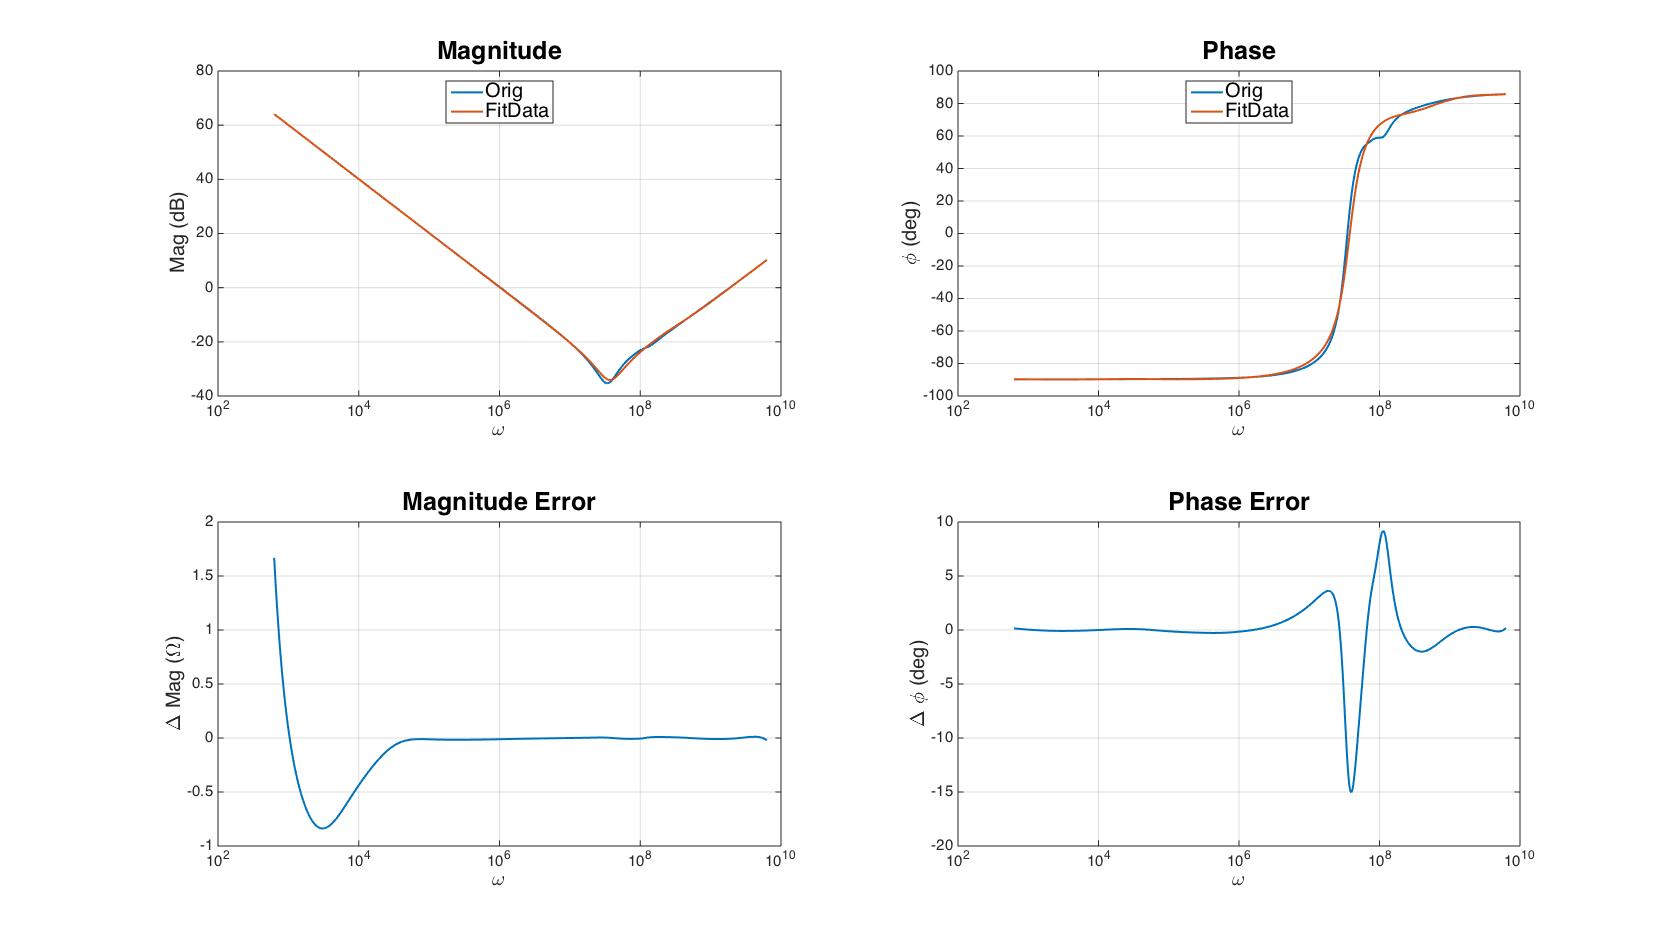
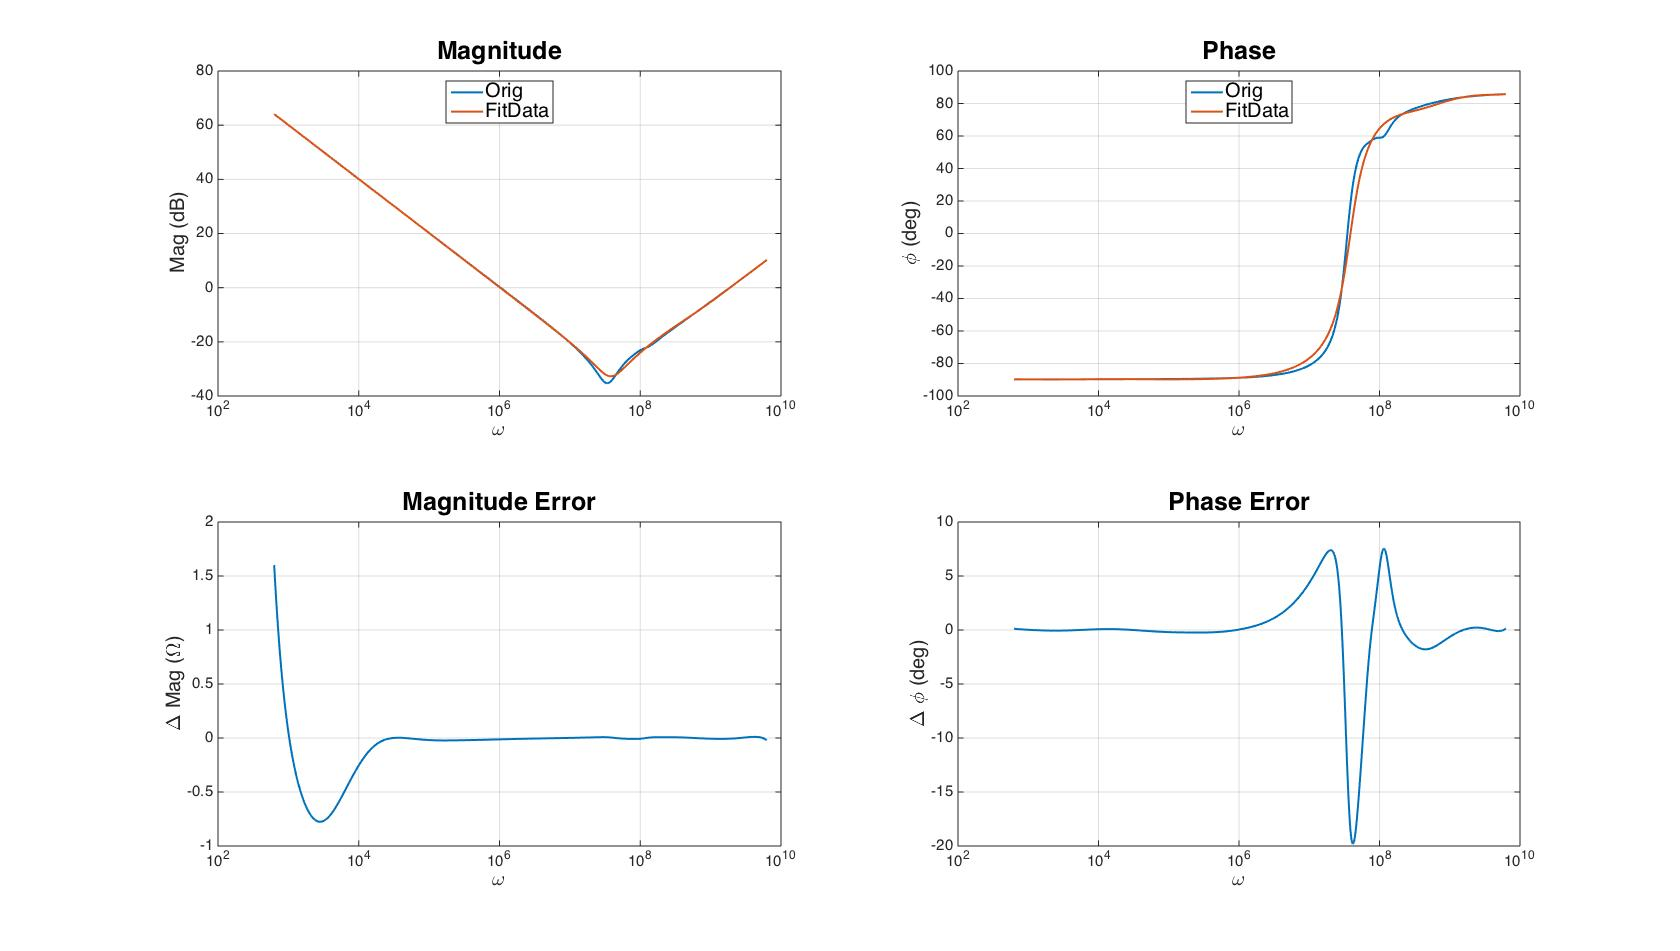
updated levy and levy iter sections of regression analysis.

diff --git a/thesis/scripts/regression/regression_levy_iter.m b/thesis/scripts/regression/regression_levy_iter.m
@@ -1,0 +1,207 @@
+function [G, numCoeffs, denCoeffs, E, minIndex] = regression_levy_iter(cData, w, iterations, numbNumCoeffs, numbDenCoeffs, initDen)
+    % Execute the regression analysis based upon Levy's method + iteration.
+    % G(s) = (a0 + a1*s + a2*s^2 + ... + an*s^n) /
+    %        (b0 + b1*s + b2*s^2 + ... + bm*s^m)
+
+    % Solve
+    numCoeffs = ones(iterations,numbNumCoeffs);
+    denCoeffs = ones(iterations,numbDenCoeffs); % Needs to be ones for the initial guess of W
+    W         = ones(length(w)); % Weighting function
+
+    %Set initial guess of the denomiator. 
+    % If initDen == 1 and iterations == 1, this will calculate levy's original method.
+    Den = initDen;
+    G = zeros(iterations,length(w));
+
+    for iter = 1:iterations
+        W = 1 ./ abs(Den).^2;
+        [numCoeffs(iter,:), denCoeffs(iter,:)] = calcCoeffs(cData, w, W, numbNumCoeffs, numbDenCoeffs);
+        [G(iter,1:length(w)),~,Den] = calcDataFromCoeffs(numCoeffs(iter,:),denCoeffs(iter,:),w);
+        E(iter,:) = sumError(cData,G(iter,1:length(w)));
+        iter
+    end
+
+    Emag = E(:,1);
+    Epha = E(:,2);
+    EmagNorm = Emag ./ max(Emag);
+    EphaNorm = Epha ./ max(Epha);
+    E2 = EmagNorm + EphaNorm;
+    minIndex = find(E2==min(E2),1);
+end % function [G,numCoeffs,denCoeffs] = regression_levy_iter(cData, w, iterations, numbNumCoeffs, numbDenCoeffs)
+
+function [numCoeffs, denCoeffs] = calcCoeffs(cData, w, W, numbNumCoeffs, numbDenCoeffs)
+    % This calculates the polynomial coefficients from the wshev polynomial series
+
+    % Prepare variables
+    Mrows = numbNumCoeffs + numbDenCoeffs - 1;
+    Mcols = Mrows;
+
+    M = ones(Mrows,Mcols);
+    N = ones(Mrows,1);
+    C = ones(Mrows,1);
+
+    sign  = 0;
+    power = 0;
+
+    %% Calculate
+    % Populate M
+    for row = 1:Mrows
+        for col = 1:Mcols
+            % Find out which section of M you are in:
+            if ((row <= numbNumCoeffs) && (col <= numbNumCoeffs))
+                %Upper Left Quadrant -- lambdas
+                xrow = row;
+                xcol = col;
+
+                if (xor(mod(xrow,2) == 0, mod(xcol,2) == 0) == 1) % If both are odd or both are even
+                    M(xrow,xcol) = 0;
+
+                else
+                    power = xrow + xcol - 2;
+
+                    if ((mod(xcol,3) == 0) && (mod(xrow,2) == 1))
+                        sign = -1;
+                    elseif ((mod(xcol,4) == 0) && (mod(xrow,2) == 0))
+                        sign = -1;
+                    else
+                        sign =  1;
+                    end
+                        
+                    M(xrow,xcol) = sign * lambda(W,w,power);
+                end % else
+
+
+            elseif (row <= numbNumCoeffs)
+                % Upper Right quadrant -- S and T
+                xrow = row;
+                xcol = col - numbNumCoeffs; 
+                power = xrow + xcol - 1;
+
+                if     (mod(xcol,4) == 1) && (mod(xrow,2) == 1)
+                    sign =  1;
+                elseif (mod(xcol,4) == 1) && (mod(xrow,2) == 0)
+                    sign = -1;
+                elseif (mod(xcol,4) == 2)
+                    sign =  1;
+                elseif (mod(xcol,4) == 3) && (mod(xrow,2) == 1)
+                    sign = -1;
+                elseif (mod(xcol,4) == 3) && (mod(xrow,2) == 0)
+                    sign = 1;
+                elseif (mod(xcol,4) == 4)
+                    sign = -1;
+                end
+
+                if  (mod(power,2) == 1)
+                    M(row,col) = sign * T(W,w,imag(cData),power);
+                else
+                    M(row,col) = sign * S(W,w,real(cData),power);
+                end
+
+                
+            elseif ((row > numbNumCoeffs) && (col <= numbNumCoeffs))
+                % Lower Left -- S and T
+                xrow = row - numbNumCoeffs;
+                xcol = col;
+                power = xrow + col - 1;
+
+                if     (mod(xcol,4) == 1)
+                    sign =  1;
+                elseif (mod(xcol,4) == 2) && (mod(xrow,2) == 1)
+                    sign = -1;
+                elseif (mod(xcol,4) == 2) && (mod(xrow,2) == 0)
+                    sign =  1;
+                elseif (mod(xcol,4) == 3)
+                    sign = -1;
+                elseif (mod(xrow,2) == 1)
+                    sign =  1;
+                elseif (mod(xrow,2) == 0)
+                    sign = -1;
+                end
+                
+                if (mod(power,2) == 0)
+                    M(row,col) = sign * S(W,w,real(cData),power);
+                else
+                    M(row,col) = sign * T(W,w,imag(cData),power);
+                end
+
+            else
+                % Lower Right -- U
+                xrow = row - numbNumCoeffs;
+                xcol = col - numbNumCoeffs;
+
+                if (xor(mod(xrow,2) == 0, mod(xcol,2) == 0) == 1) % If both are odd or both are even
+                    M(row,col) = 0;
+                else
+                    power = xrow + xcol;
+
+                    if     (mod(xcol,4) == 1)
+                        sign = 1;
+                    elseif (mod(xcol,4) == 2) 
+                        sign = 1;
+                    else
+                        sign = -1;
+                    end
+
+                    M(row,col) = sign * U(W,w,real(cData),imag(cData),power);
+                end % else -- check for zeros
+            end % else -- searching through quadrants
+        end % for row = 1:Mrows
+    end % for col = 1:Mcols
+
+    % Populate C
+    for (row = 1:length(C))
+        if (row <= numbNumCoeffs)
+            xrow = row;
+            power = xrow - 1;
+            if (mod(power,2) == 0)
+                C(xrow) = S(W,w,real(cData),power);
+            else
+                C(xrow) = T(W,w,imag(cData),power);
+            end
+        else
+            xrow = row - numbNumCoeffs;
+            power = xrow;
+            if (mod(xrow,2) == 1)
+                C(row) = 0;
+            else
+                C(row) = U(W,w,real(cData),imag(cData),power);
+            end
+        end
+    end
+    
+    % Solve For N
+    N = inv(M) * C;
+
+    numCoeffs = N(1:numbNumCoeffs);
+    denCoeffs = [1;N(numbNumCoeffs+1:length(N))]; % Need to add 1 as coeff_0
+ 
+    %Sub Functions
+    function [Lh] = lambda(W,wk,h)
+        Lh = 0;
+        for k = 1:1:length(wk)
+            Lh = Lh + wk(k)^h*W(k);
+        end
+    end
+
+    function [S] = S(W,wk,Rk,h)
+        S = 0;
+        for k = 1:1:length(wk)
+            S = S + wk(k)^h * Rk(k)*W(k);
+        end
+    end
+
+    function [T] = T(W,wk,Ik,h)
+        T = 0;
+        for k = 1:1:length(wk)
+            T = T + wk(k)^h * Ik(k)*W(k);
+        end
+    end
+
+    function [U] = U(W,wk,Rk,Ik,h)
+        U = 0;
+        for k = 1:1:length(wk)
+            U = U + wk(k)^h * (Rk(k)^2 + Ik(k)^2)*W(k);
+        end
+    end
+end % function [b,a] = calcCoeffs(w_norm, T, cData)
+

diff --git a/thesis/scripts/regression/run_levy_iter.m b/thesis/scripts/regression/run_levy_iter.m
@@ -5,10 +5,14 @@ clearvars;
 close all;
 format shorte;
 
+% Add funs to path
+addpath('../utilityFuns');
+addpath('../');
+
 NumDeg = 7;
 DenDeg = 7;
 iterations = 100;
-filename = './data/GRM31MR71H105KA88.txt';
+filename = '../data/GRM31MR71H105KA88.txt';
 
 [w, cData, rData, iData] = getData(filename);
 initDen = getInitGuess(w,modelTypes.NO_MODEL);
@@ -22,7 +26,6 @@ EphaNorm = Epha ./ max(Epha);
 E2 = EmagNorm + EphaNorm;
 n = find(E2==min(E2),1);
 fprintf('Error Minimized at Iteration: %i\n',n);
-
 
 %% Plot 
 plotcDiff = plotType.cVectorsDiff;

diff --git a/thesis/figures/modeling/levyIter_Err1.tex b/thesis/figures/modeling/levyIter_Err1.tex
@@ -1,6 +1,8 @@
+% Run ./scripts/regression/run_levy_iter.m with numDeg = 7, denDeg = 7, and iterations = 100 to obtain this image.
 \begin{figure}[ht!]
 \includegraphics[keepaspectratio=true,width=6in]{./figures/modeling/levyIter_Err1.jpg}
 \centering
 \caption{LSE + Iteration -- Magnitude and Phase Error}
 \label{fig:levyIter_Err1}
 \end{figure}
+

diff --git a/thesis/figures/modeling/levyIter_Err2.tex b/thesis/figures/modeling/levyIter_Err2.tex
@@ -1,6 +1,8 @@
+% Run ./scripts/regression/run_levy_iter.m with numDeg = 7, denDeg = 7, and iterations = 100 to obtain this image.
 \begin{figure}[ht!]
 \includegraphics[keepaspectratio=true,width=6in]{./figures/modeling/levyIter_Err2.jpg}
 \centering
 \caption{LSE + Iteration -- Combined Error}
 \label{fig:levyIter_Err2}
 \end{figure}
+

diff --git a/thesis/figures/modeling/levyIter.tex b/thesis/figures/modeling/levyIter.tex
@@ -1,6 +1,8 @@
+% Run ./scripts/regression/run_levy_iter.m with numDeg = 7, denDeg = 7, and iterations = 100 to obtain this image.
 \begin{figure}[ht!]
 \includegraphics[keepaspectratio=true,width=6in]{./figures/modeling/levyIter.jpg}
 \centering
 \caption{LSE + Iteration}
 \label{fig:levyIter}
 \end{figure}
+

diff --git a/thesis/figures/modeling/levy.tex b/thesis/figures/modeling/levy.tex
@@ -1,6 +1,8 @@
+% Run /scripts/regression/run_levy_iter.m with NumDeg = 3, DenDeg = 3, and iterations = 1.
 \begin{figure}[ht!]
 \includegraphics[keepaspectratio=true,width=6in]{./figures/modeling/levy.jpg}
 \centering
 \caption{Levy's Technique}
 \label{fig:levy}
 \end{figure}
+
